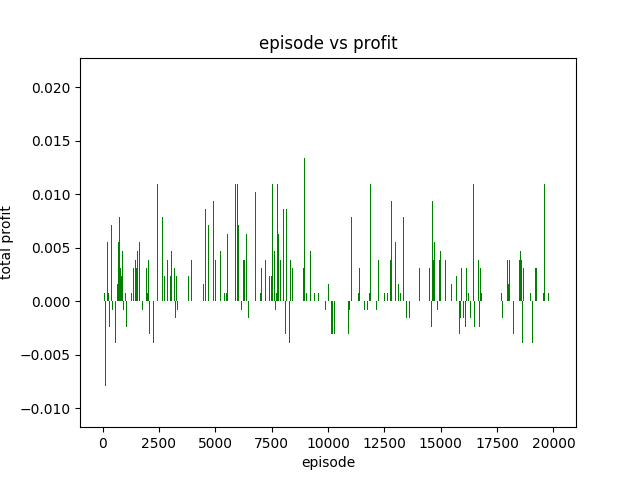
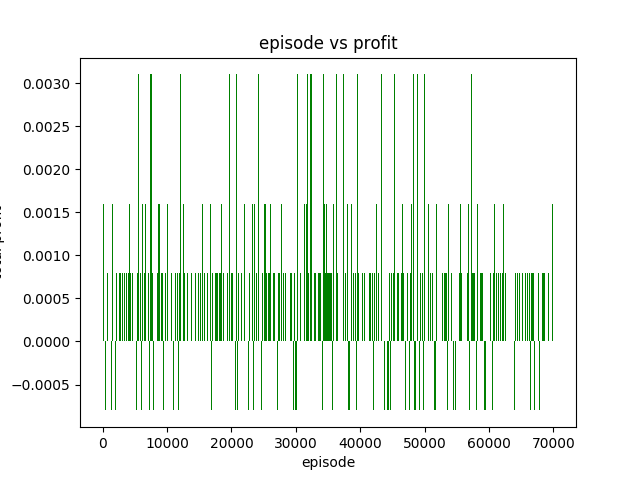
add graph

diff --git a/dqn.py b/dqn.py
@@ -18,52 +18,57 @@ class Dqn:
         profit_vs_episode  = []
         trades_vs_episode  = []
         epsilon_vs_episode = []
-        for episode in range(episodes + 1):
+        for episode in range(1,episodes + 1):
             #print("Episode " + str(e) + "/" + str(episode_count))
             state            = self.get_state(data, 0, num_features + 1)
             total_profits    = 0
-            total_trades     = 0
-            total_rewards    = 0
-            self.open_orders = []
+            total_trades     = 1
+            #total_rewards    = 0
+            self.open_orders = [data[0]]
 
-            for t in range(l):
+            for t in range(1,l):
 
                 action = agent.choose_best_action(state)#tradeoff bw predict and random
                 #print(f'state={state}')
-                reward, total_rewards, total_profits, total_trades = self.execute_action (action, data[t], t, total_rewards, total_profits, total_trades)
+                reward, total_profits, total_trades = self.execute_action (action, data[t], t, total_profits, total_trades)
 
                 done = True if t == l - 1 else False
                 next_state = self.get_state(data, t + 1, num_features + 1)
-                #print(f'next_state={next_state}')
+                print(f'row #{t} {agent.actions[action]} @{data[t]}, state1={state}, state2={next_state}, reward={reward}')
                 agent.remember(state, action, reward, next_state, done)#store contents of memory in buffer for future learning
                 state = next_state
 
                 if done:
-                    print(f'Episode {episode}/{episodes} Total Profit: {formatPrice(total_profits)} , Total trades: {total_trades}, probability of random action: {np.round(agent.epsilon,3)}')
+                    eps = np.round(agent.epsilon,3)
+                    print(f'Episode {episode}/{episodes} Total Profit: {formatPrice(total_profits)} , Total trades: {total_trades}, probability of random action: {eps}')
                     print("---------------------------------------")
-                    rewards_vs_episode.append(total_rewards)
+                    #rewards_vs_episode.append(total_rewards)
                     profit_vs_episode.append(np.round(total_profits,4))
                     trades_vs_episode.append(total_trades)
-                    epsilon_vs_episode.append(agent.epsilon)
+                    epsilon_vs_episode.append(eps)
 
                 if len(agent.memory) > batch_size:#if memory of agent gets full:
                     agent.experience_replay(batch_size)#fit
                 #clean memory ?
-            if episode % 1000 == 0:
-                model_name = "files/output/model_ep" + str(episode)
-                agent.model.save(model_name)
-                print(f'{model_name} saved')
+            # if episode % 1000 == 0:
+            #     model_name = "files/output/model_ep" + str(episode)
+            #     agent.model.save(model_name)
+            #     print(f'{model_name} saved')
 
 
         model_name = "files/output/model_ep" + str(episodes)
         agent.model.save(model_name)
         print(f'{model_name} saved')
-        return rewards_vs_episode, profit_vs_episode, trades_vs_episode, epsilon_vs_episode, model_name
+        return  profit_vs_episode, trades_vs_episode, epsilon_vs_episode, model_name, agent.num_trains
 
 
-    def execute_action(self, action, close_price, t, total_rewards, total_profits, total_trades):
+    def execute_action(self, action, close_price, t, total_profits, total_trades):
 
-        if action == 1:  # buy
+        if action == 0:  # hold
+            reward = 0
+            #print(f'row #{t} Hold')
+
+        elif action == 1:  # buy
             self.open_orders.append(close_price)
             total_trades += 1
             reward = 0
@@ -76,13 +81,13 @@ class Dqn:
             log_return = np.log(return_rate)#for normal distribution
             total_profits += log_return
             reward = log_return#get_reward(return_rate, total_profits)
-            #print(f'row #{t} exit @ ' + formatPrice(close_price) + " | return_rate: " + formatPrice(return_rate))
-
-        else:  # hold
+            #print(f'row #{t} exit @ ' + formatPrice(close_price) + " | return_rate: " + formatPrice(reward))
+        else:
             reward = 0
-            #print(f'row #{t} Hold')
-        total_rewards += reward
-        return reward, total_rewards, total_profits, total_trades
+            #print('no open orders')
+
+        #total_rewards += reward
+        return reward, total_profits, total_trades
 
 
     # returns an an n-day state representation ending at time t of difference bw close prices. ex. [0.5,0.5,0.5,0.4,0.3,0.2,0.5,0.4,0.3,0.2]

diff --git a/rl_dqn.py b/rl_dqn.py
@@ -11,11 +11,11 @@ seed()
 np.set_printoptions(precision=4)
 np.set_printoptions(suppress=True) #prevent numpy exponential #notation on print, default False
 
-stock_name          = '^GSPC_09'#^GSPC_2001_2010  ^GSPC_1970_2018  ^GSPC_2011
-num_features        = 2# (t)   super simple features
-num_neurons         = 64
-episodes            = 20000# minimum 200 episodes for results. episode represent trade and learn on all data.
-batch_size          = 2#  (int) size of a batched sampled from replay buffer for training
+stock_name          = '^GSPC_04'#^GSPC_2001_2010  ^GSPC_1970_2018  ^GSPC_2011
+num_features        = 1# (t)   super simple features
+num_neurons         = 16
+episodes            = 70000# minimum 200 episodes for results. episode represent trade and learn on all data.
+batch_size          = 1#  (int) size of a batched sampled from replay buffer for training
 random_action_decay = 0.999995
 use_existing_model  = False
 data                = getStockDataVec(stock_name)#https://www.kaggle.com/camnugent/sandp500
@@ -23,7 +23,7 @@ l                   = len(data) - 1
 print(f'Running {episodes} episodes, on {stock_name} (has {l} rows), features={num_features}, batch={batch_size}, random_action_decay={random_action_decay}')
 
 dqn=Dqn()
-rewards_vs_episode, profit_vs_episode, trades_vs_episode, epsilon_vs_episode, model_name = \
+profit_vs_episode, trades_vs_episode, epsilon_vs_episode, model_name, num_trains = \
     dqn.learn\
     (data, episodes, num_features, batch_size, use_existing_model, random_action_decay, num_neurons)
 
@@ -35,18 +35,18 @@ rewards_vs_episode, profit_vs_episode, trades_vs_episode, epsilon_vs_episode, mo
 print(f'finished learning the model. now u can backtest the model {model_name} on any stock')
 print('python backtest.py ')
 minutes= np.round((time.time() - start_time)/60,1)#minutes
-text = f'{stock_name} ({l}),t={minutes}, features={num_features}, nn={num_neurons},batch={batch_size}, epi={episodes}, eps={np.round(random_action_decay, 1)}'
+text = f'{stock_name} ({l}),t={minutes}, features={num_features}, nn={num_neurons},batch={batch_size}, epi={episodes}({num_trains}), eps={np.round(random_action_decay, 1)}'
 
 
 
 
-print(f'see plot of profit_vs_episode = {profit_vs_episode}')
+print(f'see plot of profit_vs_episode = {profit_vs_episode[:10]}')
 plot_barchart(profit_vs_episode	,  "episode vs profit", "episode vs profit", "total profit", "episode", 'green')
 
-print(f'see plot of trades_vs_episode = {trades_vs_episode}')
+print(f'see plot of trades_vs_episode = {trades_vs_episode[:10]}')
 plot_barchart(trades_vs_episode	,  "episode vs trades", "episode vs trades", "total trades", "episode", 'blue')
 
-print(f'see plot of epsilon_vs_episode = {trades_vs_episode}')
+print(f'see plot of epsilon_vs_episode = {epsilon_vs_episode[:10]}')
 plot_barchart(epsilon_vs_episode	,  "episode vs epsilon", "episode vs epsilon", "epsilon(probability of random action)", text, 'red')
 
 print('time is')

diff --git a/ai_agent.py b/ai_agent.py
@@ -22,6 +22,7 @@ class Agent:
         self.epsilon_decay = random_action_decay#we want to decrease the number of explorations as it gets good at trading.
         self.num_neurons   = num_neurons
         self.model         = load_model("files/output/" + model_name) if use_existing_model else self._build_net()
+        self.num_trains   = 0
 
     def _build_net(self ):
         model = Sequential()
@@ -84,10 +85,12 @@ class Agent:
                  , y_f
                  , epochs=1
                  , verbose=0)
+            self.num_trains += 1
 
         if self.epsilon > self.epsilon_min:
             self.epsilon *= self.epsilon_decay
-        #print(f'epsilon={self.epsilon}')
+
+            #print(f'epsilon={self.epsilon}')
         #else:
         #    print(f'warn!!! epsilon={self.epsilon} is too low. agent will exploit too much and not explore. u may have to increase epsilon_decay up to 1')
 
@@ -96,7 +99,7 @@ class Agent:
         mini_batch = []
         #mini_batch = random.sample(self.memory, batch_size)#sample is not a good choice in timeseries data
         l = len(self.memory)
-        for i in range(l - mini_batch_size + 1, l):
+        for i in range(l - mini_batch_size , l):
             mini_batch.append(self.memory[i])
         return mini_batch
 '''
